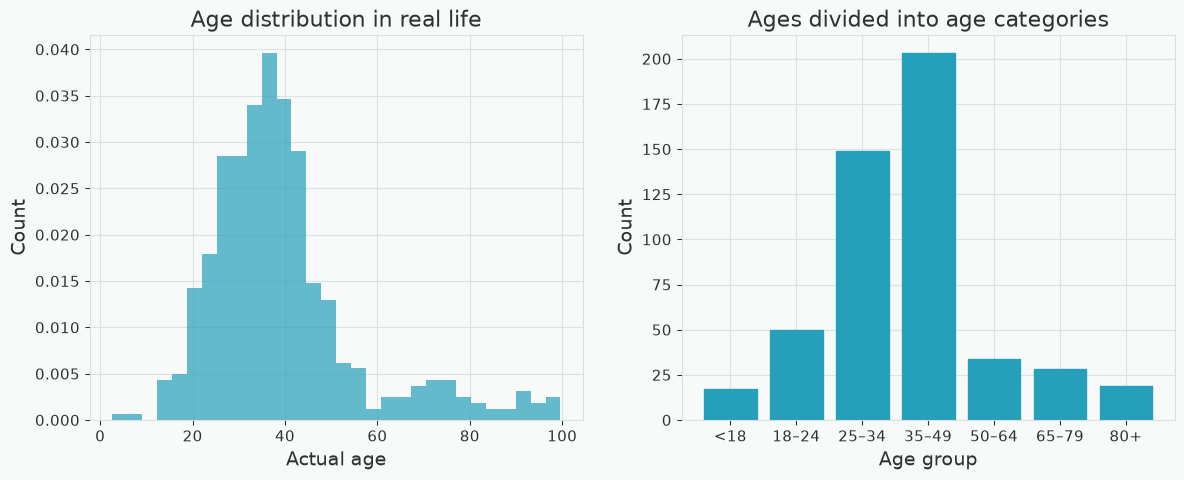
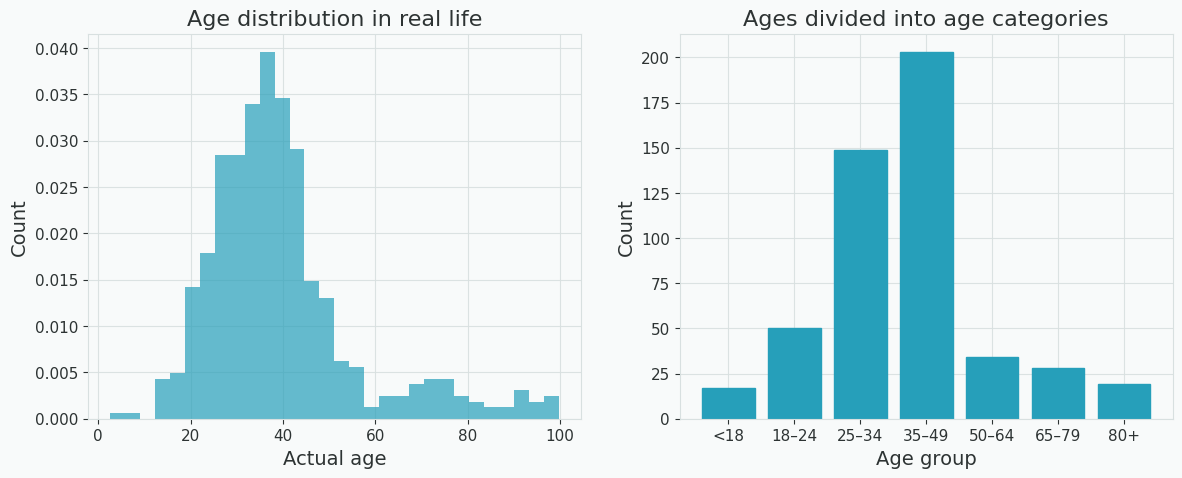
using own plot config

diff --git a/CCPlots/implementation/ContinuousDiscreteExample.py b/CCPlots/implementation/ContinuousDiscreteExample.py
@@ -1,37 +1,27 @@
+"""
+Two-panel comparison of continuous age data (histogram) versus discrete
+age-group categories (bar chart), illustrating the binning concept.
+
+Figures
+-------
+- ``continuous_discrete_example.png`` / ``_NL.png`` — histogram + bar chart
+
+Configuration
+-------------
+``CCPlots/plot_configs/continuous_discrete.json``
+"""
 import numpy as np
 import pandas as pd
-import matplotlib.pyplot as plt
 
 from CCPlots.PlotExample import PlotExample
-from CCPlots.config import BITROOT_PALETTE, apply_bitroot_style, output_path
+from CCPlots.config import BITROOT_PALETTE
 
 
-TEXT_BY_LOCALE = {
-    "en": {
-        "cat_title": "Ages divided into age categories",
-        "cat_xlabel": "Age group",
-        "cat_ylabel": "Count",
-        "cont_title": "Age distribution in real life",
-        "cont_xlabel": "Actual age",
-        "cont_ylabel": "Count",
-        "bins_labels": ['<18', '18\u201324', '25\u201334', '35\u201349', '50\u201364', '65\u201379', '80+'],
-    },
-    "nl": {
-        "cat_title": "Leeftijden verdeeld in leeftijdscategorie\u00ebn",
-        "cat_xlabel": "Leeftijdsgroep",
-        "cat_ylabel": "Aantal",
-        "cont_title": "Leeftijdsverdeling in het echt",
-        "cont_xlabel": "Werkelijke leeftijd",
-        "cont_ylabel": "Aantal",
-        "bins_labels": ['<18', '18\u201324', '25\u201334', '35\u201349', '50\u201364', '65\u201379', '80+'],
-    },
-}
+class ContinuousDiscrete(PlotExample):
 
-
-class ContinuousDiscreteExample(PlotExample):
+    CONFIG_KEY = "continuous_discrete"
 
     primary = BITROOT_PALETTE['primary']
-    tertiary = BITROOT_PALETTE['tertiary']
 
     def main(self) -> None:
         np.random.seed(42)
@@ -44,9 +34,7 @@ class ContinuousDiscreteExample(PlotExample):
 
         bins = [0, 18, 25, 35, 50, 65, 80, 100]
 
-        for locale, labels in (("en", TEXT_BY_LOCALE["en"]), ("nl", TEXT_BY_LOCALE["nl"])):
-            fname = f"continuous_discrete_example{'_NL' if locale == 'nl' else ''}.png"
-
+        for _locale, labels, suffix in self.iter_locales():
             age_bins = pd.cut(ages, bins=bins, labels=labels["bins_labels"], right=False)
 
             df = pd.DataFrame({
@@ -54,9 +42,7 @@ class ContinuousDiscreteExample(PlotExample):
                 'Age Group': age_bins
             })
 
-            fig, axs = plt.subplots(1, 2, figsize=(14, 5),
-                                    facecolor=BITROOT_PALETTE['background'])
-            fig.patch.set_facecolor(BITROOT_PALETTE['background'])
+            fig, axs = self.create_figure(ncols=2)
 
             cat_order = labels["bins_labels"]
             cat_counts = df['Age Group'].value_counts()
@@ -75,7 +61,6 @@ class ContinuousDiscreteExample(PlotExample):
             axs[0].set_ylabel(labels["cont_ylabel"], color=BITROOT_PALETTE['text'])
 
             for ax in axs:
-                apply_bitroot_style(ax)
+                self.apply_style(ax)
 
-            fig.savefig(output_path(fname), bbox_inches='tight', pad_inches=0.1)
-            plt.close(fig)
+            self.save_figure(fig, "default", suffix=suffix)
